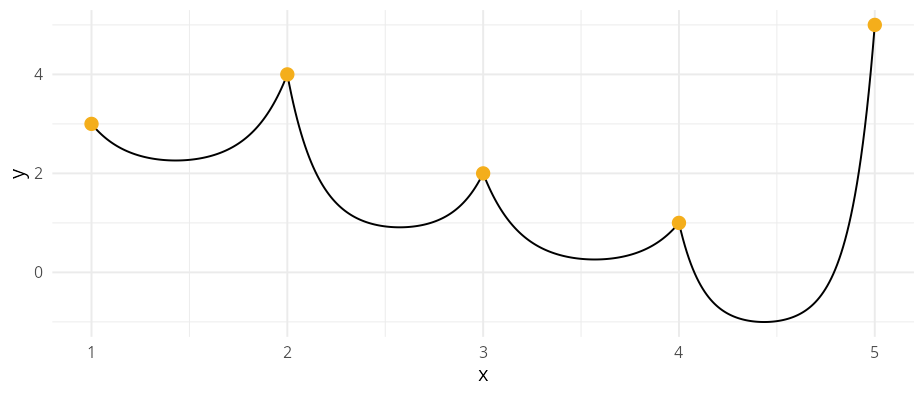
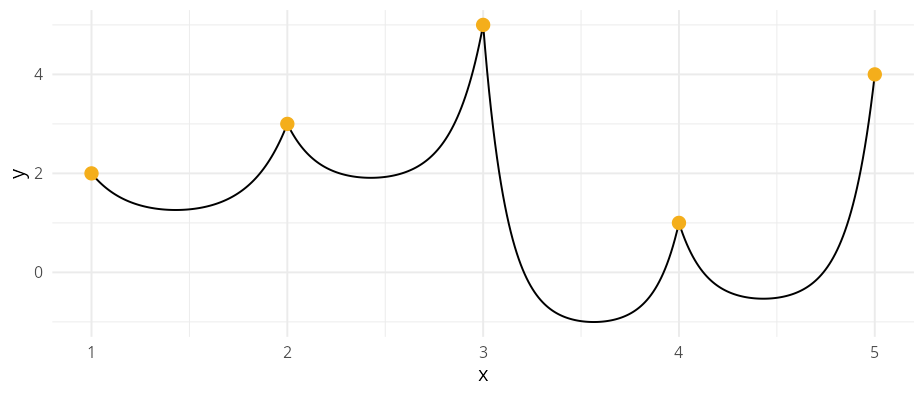
update vignette

diff --git a/README.md b/README.md
@@ -23,20 +23,7 @@ You can install `ggpointless` from CRAN with:
 
 ``` r
 install.packages("ggpointless")
-```
-
-To install the development version from [GitHub](https://github.com/)
-use:
-
-``` r
-# install.packages("devtools")
-devtools::install_github("flrd/ggpointless")
-```
-
-Once you have installed the package, attach it by calling:
-
-``` r
-library(ggpointless)
+# or devtools::install_github("flrd/ggpointless") for development version
 ```
 
 ## What will you get
@@ -45,16 +32,18 @@ This package is a collection of geoms, and stats for
 [ggplot2](https://ggplot2.tidyverse.org/). The following functions are
 implemented:
 
-- `geom_arch()` & `stat_arch()` – draws an inverted catenary curve
-- `geom_area_fade()` – area plots wiht gradient fill
-- `geom_catenary()` & `stat_catenary()` – draws a catenary curve
+- `geom_arch()` & `stat_arch()` – draws an [catenary
+  arch](https://en.wikipedia.org/wiki/Catenary_arch)
+- `geom_area_fade()` – area plots with a gradient fill
+- `geom_catenary()` & `stat_catenary()` – draws a [catenary
+  curve](https://en.wikipedia.org/wiki/Catenary)
 - `geom_chaikin()` & `stat_chaikin()` – applies Chaikin’s corner cutting
   algorithm
 - `geom_fourier()` & `stat_fourier()` – fits a Fourier series to `x`/`y`
   and renders the reconstructed curve
 - `geom_lexis()` & `stat_lexis()` – draws a Lexis diagram
 - `geom_point_glow()` – adds a radial gradient to your point plots
-- `geom_pointless()` & `stat_pointless()` – emphasizes some observations
+- `geom_pointless()` & `stat_pointless()` – emphasises some observations
   with points
 
 See
@@ -63,17 +52,17 @@ for details and examples.
 
 ### geom_area_fade
 
-This geom behaves like
-[geom_area()](https://ggplot2.tidyverse.org/reference/geom_ribbon.html?q=geom_area#null)
-does except it uses
-[grid::linearGradient()](https://search.r-project.org/CRAN/refmans/gridSVG/html/gradients.html)
-to fill the area.
+`geom_area_fade()` behaves like
+[`geom_area()`](https://ggplot2.tidyverse.org/reference/geom_ribbon.html)
+but fills each area with a vertical linear gradient using
+[`grid::linearGradient()`](https://www.rdocumentation.org/packages/grid/topics/patterns),
+fading from the fill colour at the top to transparent at the baseline.
 
 ``` r
 cols <- c("#f4ae1b", "#d77e7b", "#a84dbd", "#311dfc")
 theme_set(theme_minimal())
 
-library(ggplot2)
+library(ggpointless)
 df <- data.frame(
  g = c("a", "a", "a", "b", "b", "b"),
  x = c(1, 3, 5, 2, 4, 6),
@@ -81,73 +70,55 @@ df <- data.frame(
 )
 
 ggplot(df, aes(x, y, fill = g)) +
- geom_area_fade()
+  geom_area_fade()
 ```
 
 <img src="man/figures/README-geom-area-fade-1.png" alt="" width="100%" style="display: block; margin: auto;" />
 
-### geom_pointless
+### geom_arch
 
-`geom_pointless()` let’s you highlight the first, or last observations,
-sample minimum and sample maximum to provide additional context. Or just
-some visual sugar. `geom_pointless()` behaves similar to `geom_point()`
-except that it has a `location` argument. You can set it to `"first"`,
-`"last"` (default), `"minimum"`, `"maximum"`, and `"all"`, where `"all"`
-is just shorthand to select `"first"`, `"last"`, `"minimum"` and
-`"maximum"`.
+`geom_arch()` draws an inverted catenary curve (an arch) between
+successive points, mirroring `geom_catenary()` but curving upward. The
+shape is controlled via `arch_length` (total arc length) or
+`arch_height` (vertical rise above the highest endpoint of each
+segment). By default the arch length is twice the Euclidean distance.
 
 ``` r
-x <- seq(-pi, pi, length.out = 500)
-y <- outer(x, 1:5, function(x, y) sin(x * y))
-
-df1 <- data.frame(
-  var1 = x,
-  var2 = rowSums(y)
-)
-
-ggplot(df1, aes(x = var1, y = var2)) +
-  geom_line() +
-  geom_pointless(aes(color = after_stat(location)),
-    location = "all",
-    size = 3
-  ) +
-  scale_color_manual(values = cols)
+df <- data.frame(x = seq_len(4), y = c(1, 1, 0, 2))
+ggplot(df, aes(x, y)) +
+  geom_arch(arch_height = 0.5) +
+  geom_point(size = 3, colour = "#f4ae1b")
 ```
 
-<img src="man/figures/README-hello-world-1.png" alt="" width="100%" style="display: block; margin: auto;" />
+<img src="man/figures/README-geom-arch-1.png" alt="" width="100%" style="display: block; margin: auto;" />
 
-### geom_lexis
+### geom_catenary
 
-`geom_lexis()` is a combination of a segment and a point layer. Given a
-start value and an end value, this function draws a 45° line which
-indicates the duration of an event. Required are `x` and `xend`
-aesthetics, `y` and `yend` coordinates will be calculated.
+`geom_catenary()` draws a flexible curve that simulates a chain or rope
+hanging loosely between successive points. By default a chain length
+twice the Euclidean distance between each x/y pair is used. The shape
+can be controlled via `chain_length` or `sag` (vertical drop below the
+lowest endpoint of each segment). See
+[`vignette("ggpointless")`](https://flrd.github.io/ggpointless/articles/ggpointless.html)
+for details.
+
+Credit to:
+[dulnan/catenary-curve](https://github.com/dulnan/catenary-curve)
 
 ``` r
-df2 <- data.frame(
-  key = c("A", "B", "B", "C", "D"),
-  x = c(0, 1, 6, 5, 6),
-  xend = c(5, 4, 10, 8, 10)
-)
-
-ggplot(df2, aes(x = x, xend = xend, color = key)) +
-  geom_lexis(aes(linetype = after_stat(type)), size = 2) +
-  coord_equal() +
-  scale_x_continuous(breaks = c(df2$x, df2$xend)) +
-  scale_color_manual(values = cols) +
-  scale_linetype_identity() +
-  theme(panel.grid.minor = element_blank())
+ggplot(data.frame(x = 1:5, y = sample(5)),
+       aes(x, y)) +
+  geom_catenary() +
+  geom_point(size = 3, colour = "#f4ae1b")
 ```
 
-<img src="man/figures/README-geom-lexis-1.png" alt="" width="100%" style="display: block; margin: auto;" />
-
-See also the [`LexisPlotR`
-package](https://github.com/ottlngr/LexisPlotR).
+<img src="man/figures/README-geom-catenary-1.png" alt="" width="100%" style="display: block; margin: auto;" />
 
 ### geom_chaikin
 
-Chaikin’s corner cutting algorithm let’s you turn a ragged path or
-polygon into a smoothed one. Credit to [Farbfetzen /
+`geom_chaikin()` applies Chaikin’s corner cutting algorithm to turn a
+ragged path or polygon into a smooth one. The `closed` argument controls
+whether the path is treated as a closed polygon. Credit to [Farbfetzen /
 corner_cutting](https://github.com/Farbfetzen/corner_cutting).
 
 ``` r
@@ -177,25 +148,102 @@ ggplot(mapping = aes(x, y)) +
 
 See also the [`smoothr` package](https://github.com/mstrimas/smoothr/).
 
-### geom_catenary
+### geom_fourier
 
-Draws a flexible curve that simulates a chain or rope hanging loosely
-between two fixed points. By default, a chain length twice the Euclidean
-distance between each x/y combination is used. See
-[`vignette("ggpointless")`](https://flrd.github.io/ggpointless/articles/ggpointless.html)
-for details.
-
-Credit to:
-[dulnan/catenary-curve](https://github.com/dulnan/catenary-curve)
+`geom_fourier()` fits a truncated Fourier series (via the discrete
+Fourier transform) to the supplied x/y data and renders the
+reconstructed smooth curve. By default all harmonics up to the Nyquist
+limit are used, giving an exact interpolating fit; reducing
+`n_harmonics` progressively smooths the result. An optional `detrend`
+argument (`"lm"` or `"loess"`) removes slow non-periodic trends before
+the transform.
 
 ``` r
-ggplot(data.frame(x = 1:5, y = sample(5)),
-       aes(x, y)) + 
-  geom_catenary() +
-  geom_point(size = 3, colour = "#f4ae1b")
+set.seed(1)
+n <- 100
+df_fourier <- data.frame(
+  x = seq(0, 2 * pi, length.out = n),
+  y = sin(seq(0, 2 * pi, length.out = n)) + rnorm(n, sd = 0.3)
+)
+ggplot(df_fourier, aes(x, y)) +
+  geom_point(alpha = 0.4) +
+  geom_fourier(n_harmonics = 3, colour = "#311dfc")
 ```
 
-<img src="man/figures/README-geom-catenary-1.png" alt="" width="100%" style="display: block; margin: auto;" />
+<img src="man/figures/README-geom-fourier-1.png" alt="" width="100%" style="display: block; margin: auto;" />
+
+### geom_lexis
+
+`geom_lexis()` is a combination of a segment and a point layer. Given a
+start value and an end value, it draws a 45° line indicating the
+duration of an event. Required aesthetics are `x` and `xend`; `y` and
+`yend` are calculated automatically.
+
+``` r
+df2 <- data.frame(
+  key = c("A", "B", "B", "C", "D"),
+  x = c(0, 1, 6, 5, 6),
+  xend = c(5, 4, 10, 8, 10)
+)
+
+ggplot(df2, aes(x = x, xend = xend, color = key)) +
+  geom_lexis(aes(linetype = after_stat(type)), size = 2) +
+  coord_equal() +
+  scale_x_continuous(breaks = c(df2$x, df2$xend)) +
+  scale_color_manual(values = cols) +
+  scale_linetype_identity() +
+  theme(panel.grid.minor = element_blank())
+```
+
+<img src="man/figures/README-geom-lexis-1.png" alt="" width="100%" style="display: block; margin: auto;" />
+
+See also the [`LexisPlotR`
+package](https://github.com/ottlngr/LexisPlotR).
+
+### geom_point_glow
+
+`geom_point_glow()` is a drop-in replacement for
+[`geom_point()`](https://ggplot2.tidyverse.org/reference/geom_point.html)
+that adds a radial gradient glow behind each point using
+[`grid::radialGradient()`](https://www.rdocumentation.org/packages/grid/topics/patterns).
+The glow colour, transparency (`glow_alpha`), and radius (`glow_size`)
+can be set independently of the point itself; by default the glow
+inherits the point colour.
+
+``` r
+ggplot(mtcars, aes(wt, mpg, colour = factor(cyl))) +
+  geom_point_glow(size = 3)
+```
+
+<img src="man/figures/README-geom-point-glow-1.png" alt="" width="100%" style="display: block; margin: auto;" />
+
+### geom_pointless
+
+`geom_pointless()` lets you highlight the first, last, minimum, and
+maximum observations to provide additional context. It behaves like
+`geom_point()` but accepts a `location` argument: `"first"`, `"last"`
+(default), `"minimum"`, `"maximum"`, or `"all"` (shorthand for all
+four).
+
+``` r
+x <- seq(-pi, pi, length.out = 500)
+y <- outer(x, 1:5, function(x, y) sin(x * y))
+
+df1 <- data.frame(
+  var1 = x,
+  var2 = rowSums(y)
+)
+
+ggplot(df1, aes(x = var1, y = var2)) +
+  geom_line() +
+  geom_pointless(aes(color = after_stat(location)),
+    location = "all",
+    size = 3
+  ) +
+  scale_color_manual(values = cols)
+```
+
+<img src="man/figures/README-geom-pointless-1.png" alt="" width="100%" style="display: block; margin: auto;" />
 
 ## Code of Conduct
 
